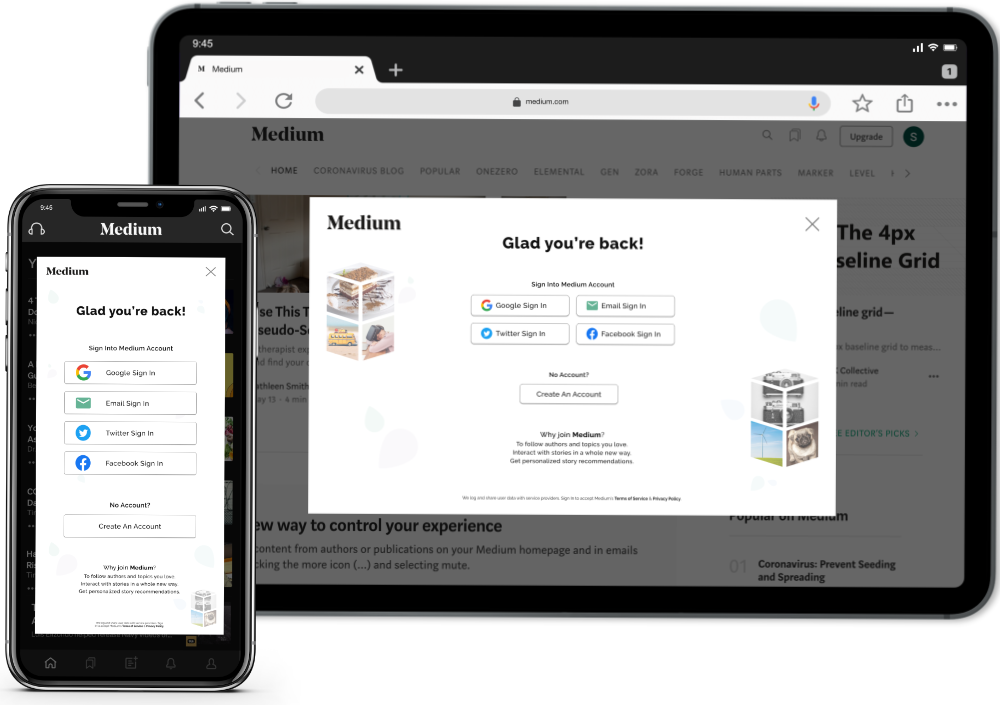
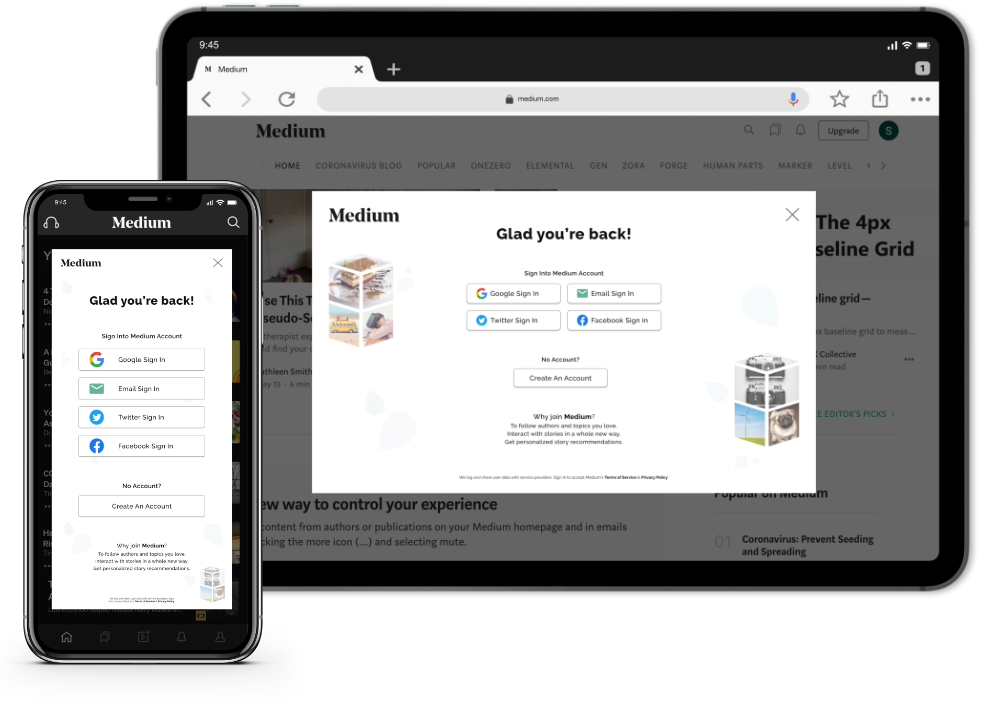
Updated images w/o padding on all pages.

diff --git a/html/marketing_campaign.html b/html/marketing_campaign.html
@@ -153,7 +153,7 @@
 
       <div class="image-wrapper">
         <div class="section-image">
-          <img id="fitnest-image1" src="../images/fitnest_imac.png" alt="">
+          <img id="fitnest-image1" src="../images/fitnest_final.png" alt="">
           <!-- <img id="fitnest-image2" src="../images/fitnest_mobile_iphone.png" alt=""> -->
           <img id="fitnest-zoom-image1" src="../images/zoom.svg" alt="">
         </div>
@@ -163,7 +163,7 @@
             <img class="close-button" src="../images/close_button_final.svg" alt="X">
           </div>
           <div class="img-show">
-            <img src="../images/fitnest_imac_padding.png" alt="">
+            <img src="../images/fitnest_padding.png" alt="">
           </div>
         </div>
 

diff --git a/html/amazon.html b/html/amazon.html
@@ -145,7 +145,7 @@
 
       <div class="image-wrapper">
         <div class="section-image">
-          <img id="amazon-image" src="../images/amazon_ipad_vertical_bw_final.png" alt="">
+          <img id="amazon-image" src="../images/amazon_final.png" alt="">
           <img id="amazon-zoom-image" src="../images/zoom.svg" alt="">
         </div>
         <div class="show">
@@ -154,7 +154,7 @@
             <img class="close-button" src="../images/close_button_final.svg" alt="X">
           </div>
           <div class="img-show">
-            <img src="../images/amazon_ipad_vertical_bw_final.png" alt="">
+            <img src="../images/amazon_padding.png" alt="">
           </div>
         </div>
       </div>

diff --git a/html/newsletter.html b/html/newsletter.html
@@ -142,7 +142,7 @@
 
       <div class="image-wrapper">
         <div class="section-image">
-          <img id="cnbc-image" src="../images/newsletter_redesign_ipad_final.png" alt="">
+          <img id="cnbc-image" src="../images/cnbc_final.png" alt="">
           <img id="cnbc-zoom-image" src="../images/zoom.svg" alt="">
         </div>
         <div class="show">
@@ -151,7 +151,7 @@
             <img class="close-button" src="../images/close_button_final.svg" alt="X">
           </div>
           <div class="img-show">
-            <img src="../images/newsletter_redesign_ipad_final.png" alt="">
+            <img src="../images/cnbc_padding.png" alt="">
           </div>
         </div>
       </div>

diff --git a/html/web_coupon.html b/html/web_coupon.html
@@ -143,7 +143,7 @@
 
       <div class="image-wrapper">
         <div class="section-image">
-          <img id="bulk-image" src="../images/fitness_redesign_combo_final.png" alt="">
+          <img id="bulk-image" src="../images/bulk_final.png" alt="">
           <img id="bulk-zoom-image" src="../images/zoom.svg" alt="">
         </div>
         <div class="show">
@@ -152,7 +152,7 @@
             <img class="close-button" src="../images/close_button_final.svg" alt="X">
           </div>
           <div class="img-show">
-            <img src="../images/fitness_redesign_combo_final.png" alt="">
+            <img src="../images/bulk_padding.png" alt="">
           </div>
         </div>
       </div>

diff --git a/html/sign_in.html b/html/sign_in.html
@@ -139,7 +139,7 @@
 
       <div class="image-wrapper">
         <div class="section-image">
-          <img id="medium-image" src="../images/sign_in_ipad_iphone.png" alt="">
+          <img id="medium-image" src="../images/medium_final.png" alt="">
           <img id="medium-zoom-image" src="../images/zoom.svg" alt="">
         </div>
         <div class="show">
@@ -148,7 +148,7 @@
             <img class="close-button" src="../images/close_button_final.svg" alt="X">
           </div>
           <div class="img-show">
-            <img src="../images/sign_in_ipad_iphone.png" alt="">
+            <img src="../images/medium_padding.png" alt="">
           </div>
         </div>
       </div>

diff --git a/css/main.css b/css/main.css
@@ -995,9 +995,7 @@ a.portfolio-column {
 #cnbc-image,
 #medium-image,
 #bulk-image {
-  margin-top: -54px;
   width: 800px;
-  /* display: block; */
   cursor: pointer;
 }
 
